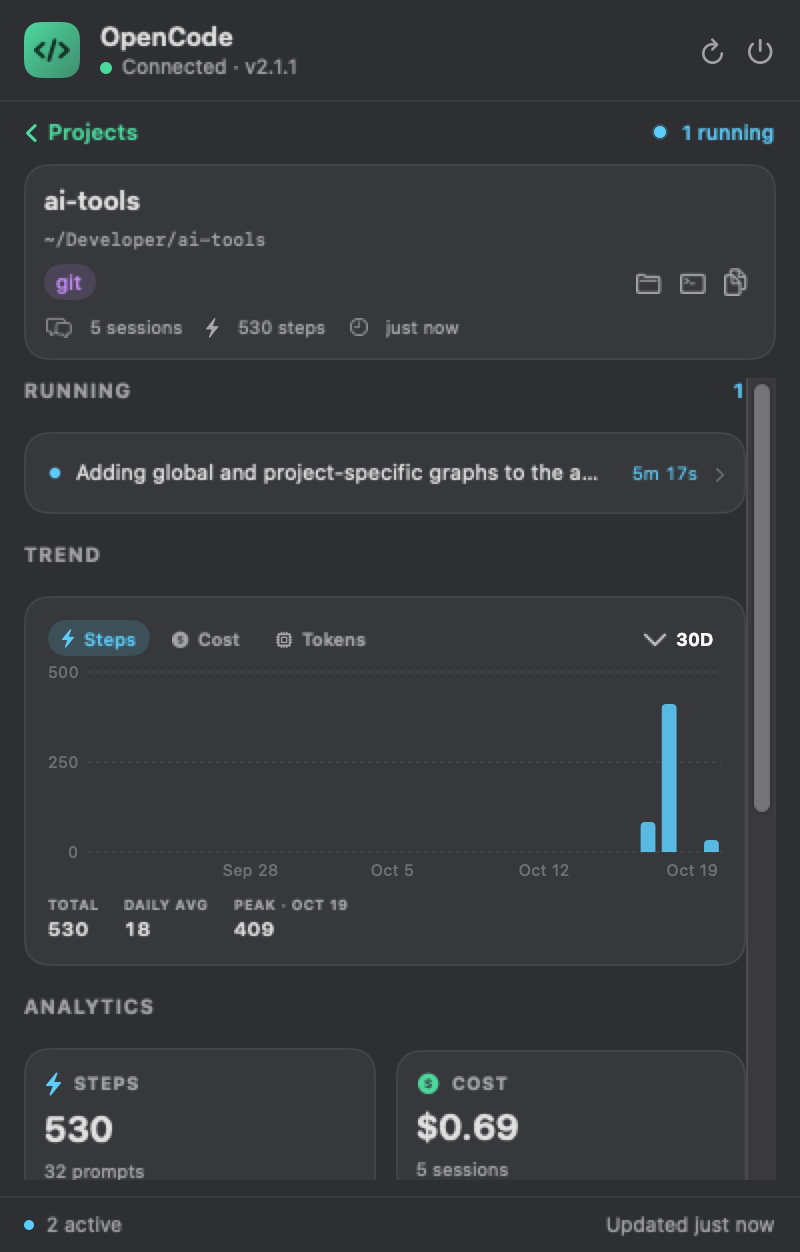
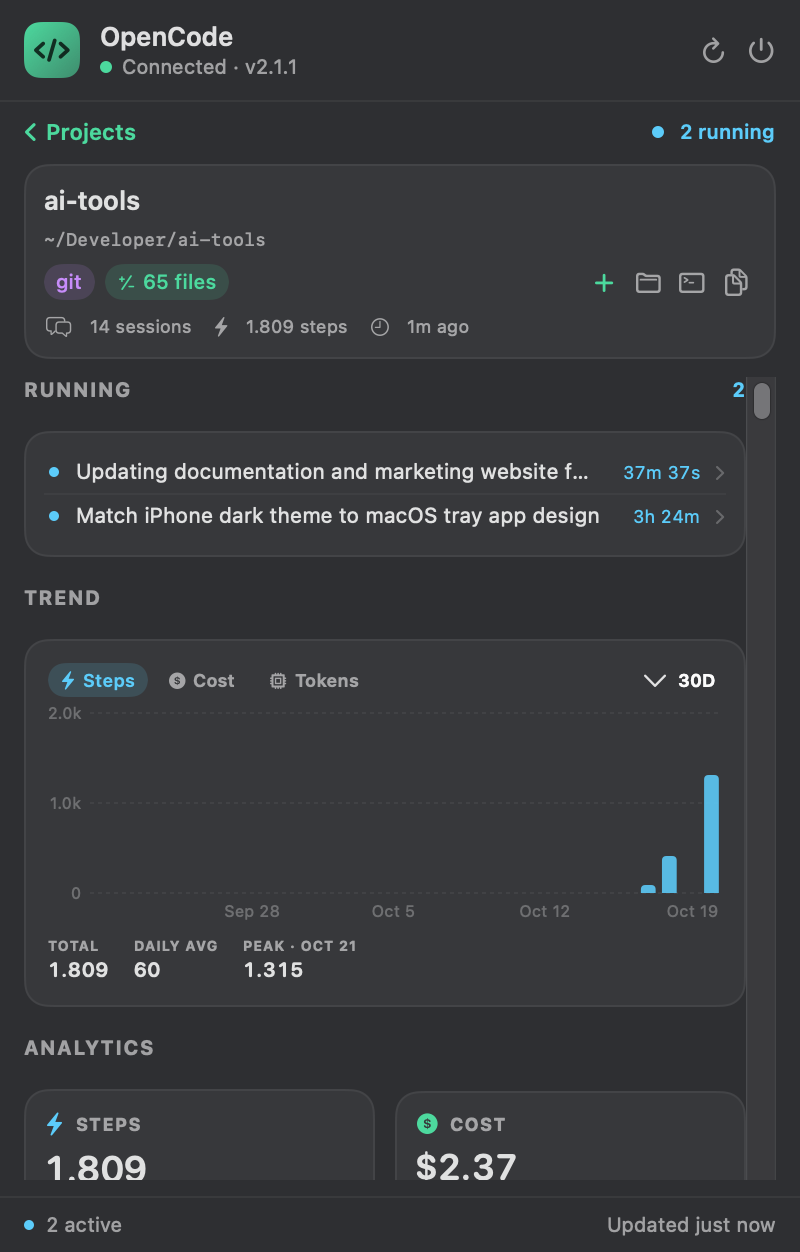
Refresh docs screenshots for stats, changes, and feed ordering
- Add the Stats and Changes views to the website and README galleries
- Regenerate the session, prompts, project, and usage screenshots
- Document stats/changes screenshot modes and SessionOrdering in the README

diff --git a/docs/index.html b/docs/index.html
@@ -107,7 +107,7 @@
         <article class="card reveal">
           <span class="icon"><svg viewBox="0 0 24 24" fill="none" stroke="currentColor" stroke-width="1.8" stroke-linecap="round" stroke-linejoin="round"><path d="M13 2 4 14h7l-1 8 9-12h-7l1-8z"/></svg></span>
           <h3>Live sessions</h3>
-          <p>Running sessions update in real time over OpenCode's event stream, with new rows sliding in at the top. See the current tool and command, streaming reasoning, todo progress, running subagents, live cost, elapsed time, and tokens — not just a spinner.</p>
+          <p>Running sessions update in real time over OpenCode's event stream, with new rows sliding in at the top. See the current tool and command, streaming reasoning, todo progress, running subagents, live cost, elapsed time, and tokens — not just a spinner. Recent sessions sit below with project, model, relative time, cost, and tokens.</p>
         </article>
 
         <article class="card tone-blue reveal">
@@ -211,6 +211,30 @@
             <img src="screenshots/session.png" alt="OpenCodeBar session detail showing a conversation with reasoning and tool calls" width="800" height="1252">
           </div>
           <figcaption><strong>Session.</strong> Open any session for its conversation — reasoning, tool calls, and a live view while it runs.</figcaption>
+        </figure>
+
+        <figure class="shot reveal">
+          <div class="window">
+            <div class="window-bar">
+              <span class="lights"><span class="tl red"></span><span class="tl yellow"></span><span class="tl green"></span></span>
+              <span class="window-title">OpenCodeBar</span>
+              <span></span>
+            </div>
+            <img src="screenshots/stats.png" alt="OpenCodeBar session Stats tab showing steps, tool calls, files, reliability, and per-tool timings" width="800" height="1252">
+          </div>
+          <figcaption><strong>Stats.</strong> Prompts, steps, tool reliability, recent failures, file impact, and the token mix for a session.</figcaption>
+        </figure>
+
+        <figure class="shot reveal">
+          <div class="window">
+            <div class="window-bar">
+              <span class="lights"><span class="tl red"></span><span class="tl yellow"></span><span class="tl green"></span></span>
+              <span class="window-title">OpenCodeBar</span>
+              <span></span>
+            </div>
+            <img src="screenshots/changes.png" alt="OpenCodeBar session Changes tab showing a colour-coded file diff with addition and deletion counts" width="800" height="1252">
+          </div>
+          <figcaption><strong>Changes.</strong> Every file the session wrote, with its patch, line counts, and a colour-coded diff grouped by file.</figcaption>
         </figure>
 
         <figure class="shot reveal">

diff --git a/README.md b/README.md
@@ -17,6 +17,8 @@ macOS panel:
 
 ![Live tab](docs/screenshots/live.png)
 ![Session detail](docs/screenshots/session.png)
+![Session stats](docs/screenshots/stats.png)
+![Session changes](docs/screenshots/changes.png)
 ![Prompts view](docs/screenshots/prompts.png)
 ![Projects tab](docs/screenshots/projects.png)
 ![Project detail](docs/screenshots/project-detail.png)
@@ -327,6 +329,7 @@ Sources/OpenCodeBar/          macOS menu bar app (SwiftPM)
   Models/OpenCodeEvent.swift  decoded event payloads (shared)
   Models/SessionActivity.swift  live "what is it doing" state (shared)
   Models/SubagentOrdering.swift  running-first ordering for child sessions
+  Models/SessionOrdering.swift  most-recent-first ordering for feeds
   Models/GoUsage.swift      Go plan windows (shared)
   Views/                    SwiftUI panel, tabs, heatmap, components
     ChangeViews.swift       patch cards and change summaries
@@ -380,10 +383,13 @@ Tests/OpenCodeBarTests/       Swift tests (event folding, ordering)
   `--preview --tab usage` opens the Usage tab directly.
 - `--screenshot <path>` renders the panel offscreen to a PNG and exits.
   `--screenshot out.png --scale 2 --tab usage` produces a 2x image for the
-  website and README. Add `--detail` (optionally `--detail-mode prompts`) to
-  render the session detail view, or `--project-detail` for the first project's
-  detail page. `--session <id>` opens a specific session; combine it with
-  `--detail-mode subagents` to inspect a session's child sessions.
+  website and README. Add `--detail` (optionally `--detail-mode prompts`,
+  `stats`, or `changes`) to render the session detail view, or
+  `--project-detail` for the first project's detail page. `--session <id>` opens
+  a specific session; combine it with `--detail-mode subagents` to inspect a
+  session's child sessions. Stats and Changes hydrate history on the first
+  request, so open those tabs once (or warm the hub cache) if a shot would
+  otherwise capture the loading state.
 - `OPENCODEBAR_DEBUG_SUBAGENTS=1` logs hub/subagent requests to stdout.
 - The menu bar glyph uses SF Symbols (`terminal` / `terminal.fill`).
 - iOS screenshot tooling (Debug builds): `OPENCODEBAR_TAB=live|projects|usage|settings`
